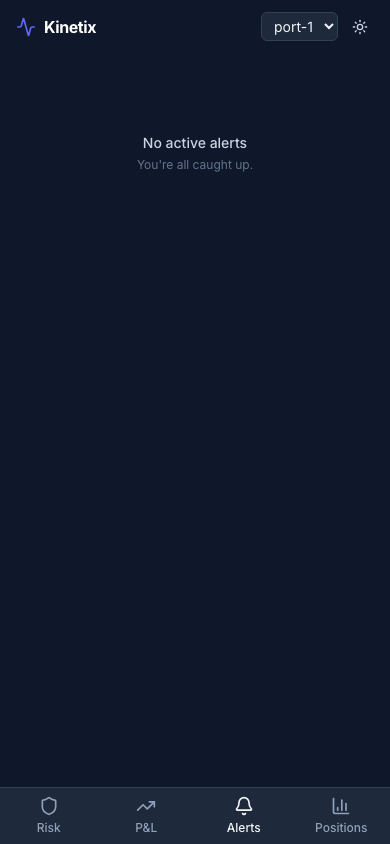
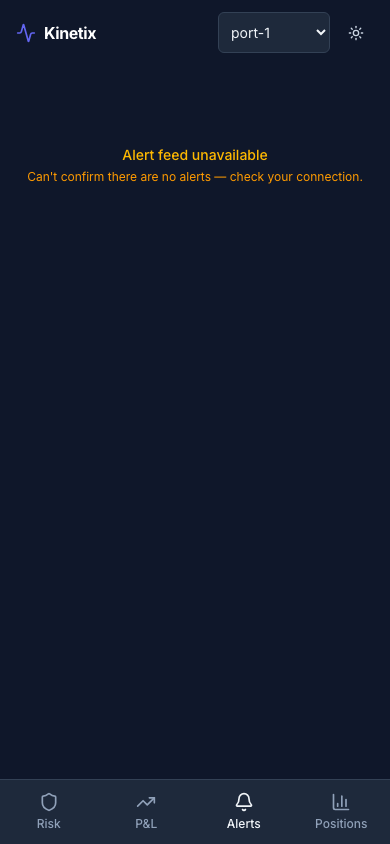
polish(mobile): alerts empty state distinguishes broken feed from no alerts

diff --git a/docs/plans/mobile-crit.md b/docs/plans/mobile-crit.md
@@ -98,7 +98,7 @@ findings are appended here by the crit round, ordered worst-first.
   At breach the badge + number go red but the card border doesn't. Add a red rail/border (`border-l-4 border-l-red-600` or `border-red-300 dark:border-red-600`) so breach reads from the corner of the eye, matching the full-card treatment in `MobileAlertsView`.
   Acceptance: cd ui && npm run lint && npm run test && npx playwright test mobile-access
 
-- [ ] **Alerts empty state gives false reassurance with no feed-health signal** (trader, med)
+- [x] **Alerts empty state gives false reassurance with no feed-health signal** (trader, med)
   "You're all caught up." looks identical whether the feed is live or the socket dropped. If `useNotifications` exposes a connection/last-event signal, show "Feed connected as of X"; if it errors, switch copy to "Alert feed unavailable" (amber).
   Acceptance: cd ui && npm run lint && npm run test && npx playwright test mobile-access
 
@@ -156,6 +156,7 @@ findings are appended here by the crit round, ordered worst-first.
 - Theme toggle touch target: now `p-2.5` (~40px, was `p-1.5`/~28px). `MobileApp.tsx`. [5974b580]
 - P&L freshness: stream-less P&L now shows a static "Intraday P&L — no timestamp available" banner (was nothing); summary DTO has no asOf field so static fallback like Positions. `MobilePnlView.tsx`. [281caf6f] — follow-up: adding an as-of to `BookAggregationDto` is a backend API contract change (out of scope).
 - Breach unmissable: VaR card gets a red border+fill (`border-red-300 bg-red-50 dark:border-red-800 dark:bg-red-900/30`) on breach, matching the CRITICAL alert card; reuses existing `VAR_BREACH_THRESHOLD`. `MobileRiskView.tsx`. [15fadaa4] (visual confirm via unit test — capture mock has no limit so can't reach breach state).
+- Alerts feed health: threaded `connected` from `useAlertStream` through `useNotifications`; empty state now branches on `connected && !error` — amber "Alert feed unavailable" when down, green "Feed live" when healthy (was always "You're all caught up"). `useNotifications.ts`, `MobileAlertsView.tsx`. [aee42227] — follow-ups (file separately if wanted): distinguish reconnecting vs exhausted in copy; desktop `NotificationCenter` could surface the same signal.
 <!-- END RESOLVED -->
 
 ## Human calls (conflicts surfaced for the user)